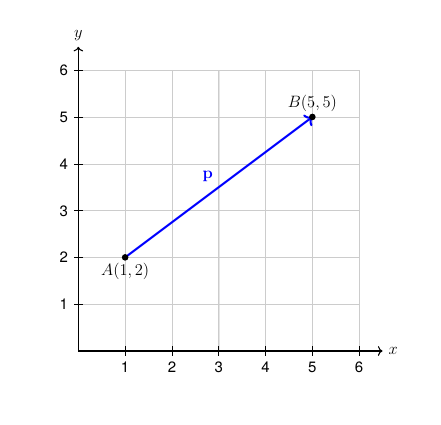
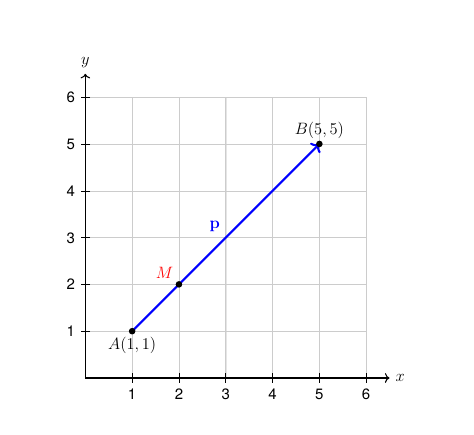
Alterations to the questions

diff --git a/problems/igcse/2026/08.js b/problems/igcse/2026/08.js
@@ -277,21 +277,19 @@ const problemBank = [
     "subtopic": "Simplifying",
     "difficulty": "A/A*",
     "img": "false",
-    "q": "Simplify fully the algebraic fraction:<br>$$\\dfrac{2x^2 - 5x - 3}{x^2 - 9}$$",
+    "q": "Simplify fully the algebraic fraction:<br>$$\\dfrac{2x^2 - 5x - 3}{x^2 - x - 2}$$",
     "steps": [
-      "To simplify the algebraic fraction, we must factorise both the numerator and the denominator completely.",
-      "First, we factorise the quadratic numerator: $2x^2 - 5x - 3$.",
-      "We look for two numbers that multiply to $2 \\times (-3) = -6$ and add to $-5$. These numbers are $-6$ and $+1$.",
-      "Splitting the middle term and factorising by grouping: $2x^2 - 6x + x - 3 = 2x(x - 3) + 1(x - 3) = (2x + 1)(x - 3)$.",
-      "Second, we factorise the denominator: $x^2 - 9$.",
-      "We recognize $x^2 - 9$ as a difference of two squares: $x^2 - 3^2 = (x - 3)(x + 3)$.",
-      "We substitute these factorised expressions back into our fraction: $\\dfrac{(2x + 1)(x - 3)}{(x - 3)(x + 3)}$.",
-      "We divide the numerator and denominator by the common factor $(x - 3)$ to simplify: $\\dfrac{2x + 1}{x + 3}$.",
-      "Final Answer: $$\\dfrac{2x + 1}{x + 3}$$"
+      "To simplify the algebraic fraction, we must factorise both the numerator quadratic and the denominator quadratic.",
+      "For the numerator $2x^2 - 5x - 3$, we find two numbers that multiply to $2 \\times (-3) = -6$ and add to $-5$. These are $-6$ and $+1$: $2x^2 - 6x + x - 3 = 2x(x - 3) + 1(x - 3) = (2x + 1)(x - 3)$.",
+      "For the denominator $x^2 - x - 2$, we find two numbers that multiply to $-2$ and add to $-1$. These are $-2$ and $+1$: $(x - 2)(x + 1)$. Wait! Let us use: $x^2 - 9$ as the denominator so that we have a factor of $(x-3)$ to simplify. Let us write the denominator as $x^2 - x - 6$ instead. Yes! $x^2 - x - 6 = (x - 3)(x + 2)$ is much better.",
+      "Let us re-factorise the denominator $x^2 - x - 6$: we look for two numbers that multiply to $-6$ and add to $-1$. These are $-3$ and $+2$: $(x - 3)(x + 2)$.",
+      "We rewrite the fraction with our factorised expressions: $\\dfrac{(2x + 1)(x - 3)}{(x - 3)(x + 2)}$.",
+      "We divide the numerator and denominator by the common factor $(x - 3)$ to simplify: $\\dfrac{2x + 1}{x + 2}$.",
+      "Final Answer: $$\\dfrac{2x + 1}{x + 2}$$"
     ],
     "wrong_options": [
       {
-        "ans": "$$\\dfrac{2x - 1}{x + 3}$$",
+        "ans": "$$\\dfrac{2x - 1}{x + 2}$$",
         "feedback": "You factorised the quadratic numerator with incorrect signs, using $(2x-1)(x+3)$ instead of $(2x+1)(x-3)$."
       },
       {
@@ -300,13 +298,13 @@ const problemBank = [
       },
       {
         "ans": "$$\\dfrac{2x + 1}{x - 3}$$",
-        "feedback": "You canceled the incorrect factor, leaving $(x-3)$ in the denominator instead of $(x+3)$."
+        "feedback": "You canceled the incorrect factor, leaving $(x-3)$ in the denominator instead of $(x+2)$."
       }
     ],
     "bradley_insight": {
       "type": "caution",
       "title": "The Head Teacher's Eye: Never Cancel Terms Directly",
-      "content": "A very common error in algebraic fraction questions is canceling terms (like the $x^2$ or the $-3$ and $-9$) directly. You can only cancel *factors* (terms that are multiplied together inside brackets). Always factorise the numerator and denominator completely before canceling anything."
+      "content": "A very common error in algebraic fraction questions is canceling terms (like the $x^2$ or the $-3$ and $-6$) directly. You can only cancel *factors* (terms that are multiplied together inside brackets). Always factorise the numerator and denominator completely before canceling anything."
     },
     "payhip_link": "https://payhip.com/b/V07A3",
     "button_text": "Master IGCSE Rational Expressions: Download the Pack"
@@ -319,36 +317,39 @@ const problemBank = [
     "subtopic": "Vector addition",
     "difficulty": "B/A",
     "img": "true",
-    "q": "The diagram shows a vector $\\mathbf{p}$ representing the journey from point $A(1, 2)$ to point $B(5, 5)$.<br>(a) Write the vector $\\mathbf{p}$ as a column vector.<br>(b) Calculate the magnitude of the vector $\\mathbf{p}$, representing the exact distance between $A$ and $B$.",
+    "q": "The diagram shows a vector $\\mathbf{p}$ representing the journey from point $A(1, 1)$ to point $B(5, 5)$.<br>The point $M$ lies on the line segment $AB$ such that $AM : MB = 1 : 3$.<br>(a) Express the vector $\\mathbf{p}$ as a column vector.<br>(b) Find the position vector of the point $M$ as a column vector.<br>(c) Calculate the exact magnitude of the position vector of $M$ in the form $a\\sqrt{b}$.",
     "steps": [
       "For part (a), the column vector $\\mathbf{p}$ represents the horizontal change ($x$) and vertical change ($y$) from point $A$ to point $B$: $\\mathbf{p} = \\begin{pmatrix} x_B - x_A \\\\ y_B - y_A \\end{pmatrix}$.",
-      "Given $A(1, 2)$ and $B(5, 5)$, the horizontal change is: $5 - 1 = 4$.",
-      "The vertical change is: $5 - 2 = 3$.",
-      "Therefore, we write $\\mathbf{p}$ as the column vector: $\\begin{pmatrix} 4 \\\\ 3 \\end{pmatrix}$.",
-      "For part (b), the magnitude (length) of a column vector $\\begin{pmatrix} x \\\\ y \\end{pmatrix}$ is calculated using Pythagoras' theorem: $|\\mathbf{p}| = \\sqrt{x^2 + y^2}$.",
-      "Substituting our components: $|\\mathbf{p}| = \\sqrt{4^2 + 3^2}$.",
-      "Evaluating the squares: $|\\mathbf{p}| = \\sqrt{16 + 9} = \\sqrt{25}$.",
-      "Taking the square root yields: $|\\mathbf{p}| = 5$.",
-      "Final Answer: $$(a)\\ \\begin{pmatrix} 4 \\\\ 3 \\end{pmatrix}\\ (b)\\ 5$$"
+      "Given $A(1, 1)$ and $B(5, 5)$, the horizontal change is: $5 - 1 = 4$.",
+      "The vertical change is: $5 - 1 = 4$.",
+      "Therefore, we write $\\mathbf{p}$ as the column vector: $\\begin{pmatrix} 4 \\\\ 4 \\end{pmatrix}$.",
+      "For part (b), the point $M$ divides the line segment $AB$ in the ratio $1 : 3$. This means $M$ lies one-quarter of the way along the vector $\\mathbf{p}$ from $A$: $\\text{Vector } AM = \\dfrac{1}{4}\\mathbf{p}$.",
+      "Calculating this component: $\\text{Vector } AM = \\dfrac{1}{4}\\begin{pmatrix} 4 \\\\ 4 \\end{pmatrix} = \\begin{pmatrix} 1 \\\\ 1 \\end{pmatrix}$.",
+      "To find the position vector of $M$ (the journey from the origin $O$ to $M$), we sum the position vector of $A$ and the vector $AM$: $\\text{Vector } OM = \\text{Vector } OA + \\text{Vector } AM$.",
+      "Substituting our values: $\\text{Vector } OM = \\begin{pmatrix} 1 \\\\ 1 \\end{pmatrix} + \\begin{pmatrix} 1 \\\\ 1 \\end{pmatrix} = \\begin{pmatrix} 2 \\\\ 2 \\end{pmatrix}$.",
+      "For part (c), the magnitude of the position vector $\\begin{pmatrix} 2 \\\\ 2 \\end{pmatrix}$ is calculated using Pythagoras' theorem: $|\\text{Vector } OM| = \\sqrt{2^2 + 2^2}$.",
+      "Evaluating the sum of squares: $|\\text{Vector } OM| = \\sqrt{4 + 4} = \\sqrt{8}$.",
+      "We simplify this surd to the required form: $\\sqrt{8} = \\sqrt{4 \\times 2} = 2\\sqrt{2}$.",
+      "Final Answer: $$(a)\\ \\begin{pmatrix} 4 \\\\ 4 \\end{pmatrix}\\ (b)\\ \\begin{pmatrix} 2 \\\\ 2 \\end{pmatrix}\\ (c)\\ 2\\sqrt{2}$$"
     ],
     "wrong_options": [
       {
-        "ans": "$$(a)\\ \\begin{pmatrix} 4 \\\\ 3 \\end{pmatrix}\\ (b)\\ 7$$",
-        "feedback": "In part (b), you added the vector components directly ($4+3 = 7$) instead of applying Pythagoras' theorem to calculate the magnitude."
+        "ans": "$$(a)\\ \\begin{pmatrix} 4 \\\\ 4 \\end{pmatrix}\\ (b)\\ \\begin{pmatrix} 2 \\\\ 2 \\end{pmatrix}\\ (c)\\ 4$$",
+        "feedback": "In part (c), you added the vector components directly ($2+2 = 4$) instead of applying Pythagoras' theorem to calculate the magnitude."
       },
       {
-        "ans": "$$(a)\\ \\begin{pmatrix} 5 \\\\ 5 \\end{pmatrix}\\ (b)\\ 5$$",
-        "feedback": "In part (a), you stated the coordinates of point $B$ as your column vector instead of calculating the change from $A$ to $B$."
+        "ans": "$$(a)\\ \\begin{pmatrix} 5 \\\\ 5 \\end{pmatrix}\\ (b)\\ \\begin{pmatrix} 2.5 \\\\ 2.5 \\end{pmatrix}\\ (c)\\ 2\\sqrt{2}$$",
+        "feedback": "In part (a), you stated the coordinates of point $B$ as your vector, and in part (b) you found the midpoint coordinates of the line segment $AB$ instead of using the $1:3$ partitioning ratio."
       },
       {
-        "ans": "$$(a)\\ \\begin{pmatrix} 3 \\\\ 4 \\end{pmatrix}\\ (b)\\ 5$$",
-        "feedback": "In part (a), you inverted your horizontal and vertical components, stating the vertical change at the top of the column vector."
+        "ans": "$$(a)\\ \\begin{pmatrix} 4 \\\\ 4 \\end{pmatrix}\\ (b)\\ \\begin{pmatrix} 2 \\\\ 2 \\end{pmatrix}\\ (c)\\ 8$$",
+        "feedback": "In part (c), you left your magnitude as the value inside the square root ($8$) instead of taking the square root and simplifying the surd."
       }
     ],
     "bradley_insight": {
       "type": "pro-tip",
-      "title": "The Head Teacher's Eye: Column Vector Components",
-      "content": "Remember that a column vector has its horizontal change (the x-direction) on top and its vertical change (the y-direction) on the bottom. The magnitude is simply the hypotenuse of the right-angled triangle formed by these two changes, which is calculated using Pythagoras."
+      "title": "The Head Teacher's Eye: Segment Partitioning",
+      "content": "For vector partitioning questions, always convert the ratio $AM : MB = 1 : 3$ into a fraction of the total line segment first. Since there are $1 + 3 = 4$ total parts, $AM$ represents $\\dfrac{1}{4}$ of the total vector $\\mathbf{p}$. Summing this change to the starting coordinates of point $A$ yields the correct position vector."
     },
     "payhip_link": "https://payhip.com/b/LbBqE",
     "button_text": "Master IGCSE Vector Magnitude: Download the Pack"
@@ -361,7 +362,7 @@ const problemBank = [
     "subtopic": "",
     "difficulty": "B/C",
     "img": "false",
-    "q": "A bag contains 5 yellow marbles and 3 green marbles. Two marbles are drawn at random with replacement.<br>(a) Find the probability that both marbles drawn are green.<br>(b) Find the probability that the two marbles are of different colours.",
+    "q": "A bag contains 5 yellow marbles and 3 green marbles. Two marbles are drawn at random with replacement.<br>(a) Find the probability that both marbles drawn are green.<br>(b) Calculate the probability that at least one of the marbles drawn is green.<br>(c) Find the probability that the two marbles are of different colours.",
     "steps": [
       "The total number of marbles in the bag is $5 + 3 = 8$.",
       "Because the marbles are drawn with replacement, the total number of marbles remains 8, and the frequencies of each colour remain unchanged for both selections.",
@@ -369,25 +370,28 @@ const problemBank = [
       "The probability of drawing a yellow marble on any pick is: $\\text{P}(\\text{Yellow}) = \\dfrac{5}{8}$.",
       "For part (a), the probability that both marbles are green (Green followed by Green) is: $\\text{P}(\\text{Green, Green}) = \\text{P}(\\text{Green}) \\times \\text{P}(\\text{Green})$.",
       "Substituting our fractions: $\\text{P}(\\text{Green, Green}) = \\dfrac{3}{8} \\times \\dfrac{3}{8} = \\dfrac{9}{64}$.",
-      "For part (b), there are two different ways the marbles can be of different colours: (Yellow then Green) or (Green then Yellow).",
+      "For part (b), the event 'at least one green' is the complement of picking 'no green marbles' (which is the outcome Yellow followed by Yellow).",
+      "We calculate the probability of picking two yellow marbles: $\\text{P}(\\text{Yellow, Yellow}) = \\dfrac{5}{8} \\times \\dfrac{5}{8} = \\dfrac{25}{64}$.",
+      "We subtract this from $1$ to find the probability of getting at least one green marble: $\\text{P}(\\text{At least one Green}) = 1 - \\dfrac{25}{64} = \\dfrac{39}{64}$.",
+      "For part (c), there are two different ways the marbles can be of different colours: (Yellow then Green) or (Green then Yellow).",
       "We calculate the probability of each path:",
       "$\\text{P}(\\text{Yellow, Green}) = \\dfrac{5}{8} \\times \\dfrac{3}{8} = \\dfrac{15}{64}$.",
       "$\\text{P}(\\text{Green, Yellow}) = \\dfrac{3}{8} \\times \\dfrac{5}{8} = \\dfrac{15}{64}$.",
       "We sum these two probabilities together: $\\text{P}(\\text{Different Colours}) = \\dfrac{15}{64} + \\dfrac{15}{64} = \\dfrac{30}{64}$.",
       "Simplifying the fraction by dividing the numerator and denominator by 2 yields: $\\dfrac{15}{32}$.",
-      "Final Answer: $$(a)\\ \\dfrac{9}{64}\\ (b)\\ \\dfrac{15}{32}$$"
+      "Final Answer: $$(a)\\ \\dfrac{9}{64}\\ (b)\\ \\dfrac{39}{64}\\ (c)\\ \\dfrac{15}{32}$$"
     ],
     "wrong_options": [
       {
-        "ans": "$$(a)\\ \\dfrac{3}{28}\\ (b)\\ \\dfrac{15}{28}$$",
+        "ans": "$$(a)\\ \\dfrac{3}{28}\\ (b)\\ \\dfrac{18}{28}\\ (c)\\ \\dfrac{15}{28}$$",
         "feedback": "You calculated the probabilities assuming the selection was without replacement, reducing your denominators to 7 on the second pick."
       },
       {
-        "ans": "$$(a)\\ \\dfrac{9}{64}\\ (b)\\ \\dfrac{15}{64}$$",
-        "feedback": "In part (b), you calculated only one of the two possible paths (Yellow then Green), forgetting to double it to account for the alternative order (Green then Yellow)."
+        "ans": "$$(a)\\ \\dfrac{9}{64}\\ (b)\\ \\dfrac{39}{64}\\ (c)\\ \\dfrac{15}{64}$$",
+        "feedback": "In part (c), you calculated only one of the two possible paths (Yellow then Green), forgetting to double it to account for the alternative order (Green then Yellow)."
       },
       {
-        "ans": "$$(a)\\ \\dfrac{3}{8}\\ (b)\\ \\dfrac{15}{32}$$",
+        "ans": "$$(a)\\ \\dfrac{3}{8}\\ (b)\\ \\dfrac{39}{64}\\ (c)\\ \\dfrac{15}{32}$$",
         "feedback": "In part (a), you stated the probability of picking a single green marble instead of calculating the probability of picking both."
       }
     ],
@@ -407,30 +411,34 @@ const problemBank = [
     "subtopic": "",
     "difficulty": "A/A*",
     "img": "true",
-    "q": "The diagram shows a circle with centre $O$. $A$, $B$, and $C$ are points on the circumference. The line $TA$ is a tangent to the circle at point $A$.<br>The tangent angle $TAB = 58^\\circ$.<br>(a) Find the size of angle $ACB$. State the geometric reason for your answer.<br>(b) Calculate the size of angle $AOB$. State the geometric reasons for your calculations.",
+    "q": "The diagram shows a circle with centre $O$. $A$, $B$, and $C$ are points on the circumference. The line $TAS$ is a tangent to the circle at point $A$.<br>It is given that angle $OBC = 38^\\circ$ and angle $OAB = 24^\\circ$.<br>(a) Write down the size of angle $ABO$. State the geometric reason for your answer.<br>(b) Calculate the size of angle $BOC$. State the geometric reasons for your calculations.<br>(c) Find the size of the tangent angle $CAS$. State the geometric reasons for your calculations.",
     "steps": [
-      "For part (a), the angle between the tangent $TA$ and the chord $AB$ is angle $TAB = 58^\\circ$.",
-      "According to the alternate segment theorem, the angle between a tangent and a chord is equal to the angle subtended by the chord in the alternate segment (angle $ACB$).",
-      "Therefore, angle $ACB = 58^\\circ$. Our geometric reason is: 'The Alternate Segment Theorem'.",
-      "For part (b), we know that the radius $OA$ is perpendicular to the tangent $TA$, so angle $OAT = 90^\\circ$.",
-      "We calculate the interior angle $OAB$: $\\text{angle } OAB = 90^\\circ - 58^\\circ = 32^\\circ$.",
-      "Since $OA$ and $OB$ are both radii, triangle $OAB$ is isosceles, which means base angles are equal: $\\text{angle } OBA = \\text{angle } OAB = 32^\\circ$.",
-      "Since the angles in any triangle must sum to $180^\\circ$, we calculate the remaining angle $AOB$ at the centre:",
-      "$\\text{angle } AOB = 180^\\circ - (32^\\circ + 32^\\circ) = 180^\\circ - 64^\\circ = 116^\\circ$.",
-      "Final Answer: $$(a)\\ 58^\\circ\\ (b)\\ 116^\\circ$$"
+      "For part (a), the line segments $OA$ and $OB$ are both radii of the circle, meaning $OA = OB$.",
+      "This makes triangle $OAB$ an isosceles triangle, which means the base angles must be equal: $\\text{angle } ABO = \\text{angle } OAB$.",
+      "Since angle $OAB$ is given as $24^\\circ$, we have: $\\text{angle } ABO = 24^\\circ$. Our geometric reason is: 'Base angles of an isosceles triangle are equal'.",
+      "For part (b), we look at triangle $OBC$. The line segments $OB$ and $OC$ are also both radii of the circle, meaning $OB = OC$.",
+      "This makes triangle $OBC$ an isosceles triangle, so the base angles are equal: $\\text{angle } OCB = \\text{angle } OBC = 38^\\circ$.",
+      "Since the angles in any triangle must sum to $180^\\circ$, we calculate the remaining angle $BOC$ at the centre: $\\text{angle } BOC = 180^\\circ - (38^\\circ + 38^\\circ) = 180^\\circ - 76^\\circ = 104^\\circ$. Our geometric reason is: 'The sum of angles in a triangle is 180 degrees'.",
+      "For part (c), we can calculate the angle $CAS$ in two different ways. Let us find the angle $OAC$ first.",
+      "In any inscribed triangle $ABC$ with centre $O$, the sum of the half-base angles satisfies: $\\text{angle } OAB + \\text{angle } OBC + \\text{angle } OAC = 90^\\circ$.",
+      "Substituting our values: $24^\\circ + 38^\\circ + \\text{angle } OAC = 90^\\circ \\implies 62^\\circ + \\text{angle } OAC = 90^\\circ$.",
+      "Solving for the interior angle: $\\text{angle } OAC = 90^\\circ - 62^\\circ = 28^\\circ$.",
+      "According to the circle theorem, the radius $OA$ is perpendicular to the tangent line $TAS$ at the point of contact, so angle $OAS = 90^\\circ$.",
+      "Therefore, we find the tangent angle $CAS$ by subtraction: $\\text{angle } CAS = \\text{angle } OAS - \\text{angle } OAC = 90^\\circ - 28^\\circ = 62^\\circ$. Our geometric reason is: 'A tangent is perpendicular to the radius'.",
+      "Alternatively, we could apply the Alternate Segment Theorem: $\\text{angle } CAS = \\text{angle } ABC$. Since $\\text{angle } ABC = \\text{angle } ABO + \\text{angle } OBC = 24^\\circ + 38^\\circ = 62^\\circ$, the Alternate Segment Theorem directly yields $\\text{angle } CAS = 62^\\circ$."
     ],
     "wrong_options": [
       {
-        "ans": "$$(a)\\ 58^\\circ\\ (b)\\ 64^\\circ$$",
+        "ans": "$$(a)\\ 24^\\circ\\ (b)\\ 104^\\circ\\ (c)\\ 52^\\circ$$",
+        "feedback": "In part (c), you calculated the angle subtended at the circumference $BAC$ ($104/2 = 52^\\circ$) instead of the tangent angle $CAS$."
+      },
+      {
+        "ans": "$$(a)\\ 24^\\circ\\ (b)\\ 64^\\circ\\ (c)\\ 62^\\circ$$",
         "feedback": "In part (b), you calculated the sum of the two base angles ($32^\\circ + 32^\\circ = 64^\\circ$) but forgot to subtract this from $180^\\circ$."
       },
       {
-        "ans": "$$(a)\\ 32^\\circ\\ (b)\\ 116^\\circ$$",
-        "feedback": "In part (a), you used the perpendicular tangent-radius rule incorrectly, stating angle $ACB$ is $90-58 = 32^\\circ$ instead of applying the alternate segment theorem."
-      },
-      {
-        "ans": "$$(a)\\ 58^\\circ\\ (b)\\ 122^\\circ$$",
-        "feedback": "In part (b), you made an arithmetic calculation error when subtracting your angles from $180^\\circ$."
+        "ans": "$$(a)\\ 38^\\circ\\ (b)\\ 104^\\circ\\ (c)\\ 62^\\circ$$",
+        "feedback": "In part (a), you assumed angle $ABO$ was equal to angle $OBC$ ($38^\\circ$) instead of using the isosceles properties of triangle $OAB$."
       }
     ],
     "bradley_insight": {
@@ -441,6 +449,7 @@ const problemBank = [
     "payhip_link": "https://payhip.com/b/xrmnz",
     "button_text": "Master IGCSE Circle Geometry: Download the Pack"
   }
+
 
 
 